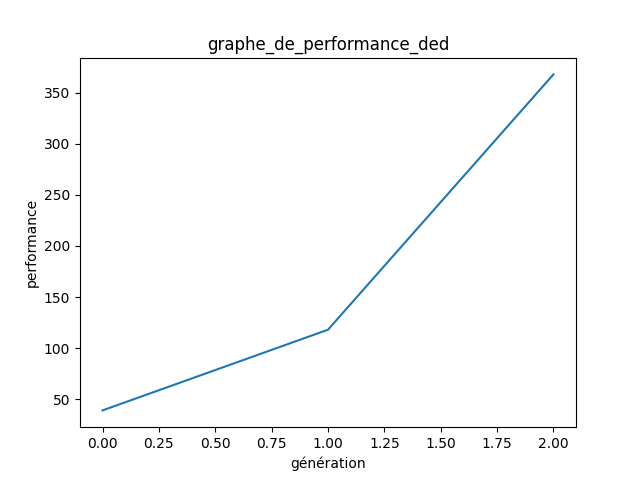
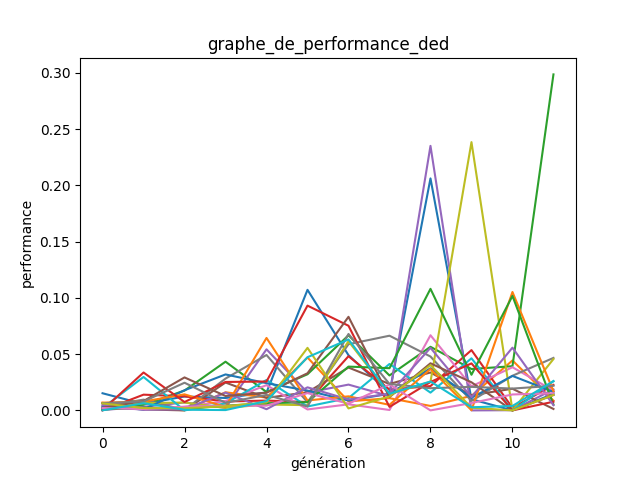
Coordonnées du nid plus grand

diff --git a/MainEvol.py b/MainEvol.py
@@ -15,12 +15,13 @@ import matplotlib.pyplot as plt
 import time
 
 
+
 from objects import SwitchObject, UWallObject, Feuille
 
 gen_to_track=[0,5,10,15,25]
 def main():
     nbgen = 40
-    nbiterpergen = 4000
+    nbiterpergen = 1000
     lambda_=20
     nb_repet = 3
     mu=5
@@ -31,13 +32,13 @@ def main():
         controller_class=EvolController,
         world_observer_class=WorldObserverEvol,
         object_class_dict={'uwall': UWallObject, 'switch': SwitchObject,'feuille': Feuille},
-        override_conf_dict={"gBatchMode": False, "gDisplayMode": 1,"gInitialNumberOfRobots":lambda_}
+        override_conf_dict={"gBatchMode": False, "gDisplayMode": 0,"gInitialNumberOfRobots":lambda_}
     )
 
  
     rob.start()
     # un genome : une solution candidate , poids du réseau
-    all_genomes=init_from_file(rob,"HallOfFame (copie)",lambda_)
+    all_genomes=init_from_file(rob,"HallOfFame_copie",lambda_)
     debug = []
     for igen in range(nbgen):
         """
@@ -55,40 +56,61 @@ def main():
             i = i+1
             s2 = ("genome:",i)
             debug.append(s2)
-           # print("*" * 10,"genome:",i, "*" * 10)
+            print("*" * 10,"genome:",i, "*" * 10)
+           # print("genome",genome)
             performance_gen_ref_repet = []
             performance_gen_ded_repet = []
             for z in range(nb_repet):
+                
+                tps1 = time.time()
                 apply_weight_clonal(rob,genome)
+                #print("weight:",get_weights(rob))
+                tps2 = time.time()
+               # print("temps apply_weights :",tps2 - tps1)
+                
                 tps1 = time.time()
                 stop = rob.update(nbiterpergen)
                 if stop:
                     break
                 tps2 = time.time()
-               # print("temps test genome :",tps2 - tps1)
+                print("temps test genome :",tps2 - tps1)
                 #fitness dediee de chaque agent/robot
                 fitnesses_ded_list = get_fitnesses_ded(rob)
                 #fitness dediee totale pour ce genome
                 fitness_ded_genome=np.sum(fitnesses_ded_list)+get_global_fitnesses(rob)
                 performance_gen_ded_repet.append(fitness_ded_genome)
                 performance_gen_ref_repet.append(get_reference_function(rob))
+                tps1 = time.time()
                 reset_world_observer(rob)
                 reset_agent_controllers(rob)
+                tps2 = time.time()
+                #print("temps reset :",tps2 - tps1)
       
             performance_gen_ded.append(np.mean(performance_gen_ded_repet))
             performance_gen_ref.append(np.mean(performance_gen_ref_repet))
         
-        performance_list_ded.append(np.mean(performance_gen_ded))
-        performance_list.append(np.mean(performance_gen_ref))
+       # performance_list_ded.append(np.mean(performance_gen_ded))
+       # performance_list.append(np.mean(performance_gen_ref))
+        
+        performance_list_ded.append(performance_gen_ded)
+        performance_list.append(performance_gen_ref)
    
         #on garde le meilleur genome en memoire
         updateHoF(all_genomes, performance_gen_ref)
+        
+        tps1 = time.time()
    	    #ou utiliser fitprop ici ou tout algo de selection de type ES
+        #print("performance dédiée:",performance_gen_ded)
         all_genomes = mu_comma_lambda_nextgen(all_genomes, performance_gen_ded,mu,lambda_)
+        tps2 = time.time()
+       # print("temps mu_comma_lambda :",tps2 - tps1)
+        
         """
         if igen in gen_to_track:
             rob.save_trajectory_image("all_agents for gen"+str(igen))"""
-
+        
+        
+        """
         plt.plot(np.arange(len(performance_list)),performance_list)
         plt.xlabel("génération")
         plt.ylabel("performance")
@@ -102,7 +124,24 @@ def main():
         plt.ylabel("performance")
         plt.title("graphe_de_performance_ded")
         plt.savefig("graphe_de_performance_ded")
+        plt.figure()"""
+        
+
+        
+        # fitness_ded
+        plt.boxplot(performance_list_ded,manage_ticks=True)
+        plt.title("Performance_ded")
+        plt.savefig("Boxplot_de_performance_ded")
         plt.figure()
+        
+        # fitness_ref
+        plt.boxplot(performance_list,manage_ticks=True)
+        plt.title("Performance_ref")
+        plt.savefig("Boxplot_de_performance_ref")
+        plt.figure()
+        
+                
+            
     plt.show()
     
 if __name__ == "__main__":

diff --git a/WorldObserverEvol.py b/WorldObserverEvol.py
@@ -20,7 +20,7 @@ depotMax = 450
 rampeYMin=450
 rampeYMax=700
 nestX=370
-nestY=850
+nestY=800
 Rayon_nid = 50
 
 
@@ -132,7 +132,7 @@ class WorldObserverEvol(WorldObserver):
         arena_size = np.asarray(self.rob.arena_size)
         landmark = self.rob.add_landmark()
         landmark.radius = 20
-        landmark.set_coordinates(370,850)
+        landmark.set_coordinates(370,nestY)
         landmark.show()
         
     def step_pre(self):
@@ -146,11 +146,11 @@ class WorldObserverEvol(WorldObserver):
 
                 ori = c.absolute_orientation
                 # on est dans la zone du nid
-                if(nestX-Rayon_nid <=x<=nestX+Rayon_nid and nestY-Rayon_nid <= y <= nestY+Rayon_nid and c.getWantDrope()):
+                if(nestY <= y and c.getWantDrope()):
                         c.setObjCollected(False)
                         c.setCanInstantDrop(False)
                         #c.fitness += 50000
-                        print("Dropped in nest!")
+                        # print("Dropped in nest!")
                         self.reference_function += 1
                         #self.addPoint(50000)
                         

diff --git a/tools.py b/tools.py
@@ -54,11 +54,12 @@ def fitprop(weights, fitnesses,sigma=0.01):
     new_weights_mutate = np.random.normal(new_weights, sigma)
     return new_weights_mutate
 
-def mu_comma_lambda_nextgen(weights, fitnesses,mu,lambda_,sigma=0.1):
+def mu_comma_lambda_nextgen(weights, fitnesses,mu,lambda_,sigma=0.0001):
     # select
     index_mu_best=np.argsort(-np.array(fitnesses))[:mu]
-    #print("indices des meilleurs genomes")
+   # print("meilleur index :", index_mu_best)
     bestParents = np.asarray(weights)[index_mu_best]
+   # print("meilleur parents :", bestParents)
     # mutate
     new_weights_mutate = np.array([np.random.normal(bestParents[np.random.randint(mu)],sigma) for i in range(lambda_)])
     #print("taille:",len(new_weights_mutate))

diff --git a/controllerEvol.py b/controllerEvol.py
@@ -11,7 +11,7 @@ from tools import evaluate_network
 import random
 
 nestX=370
-nestY=850
+nestY=800
 Rayon_nid = 50
 
 
